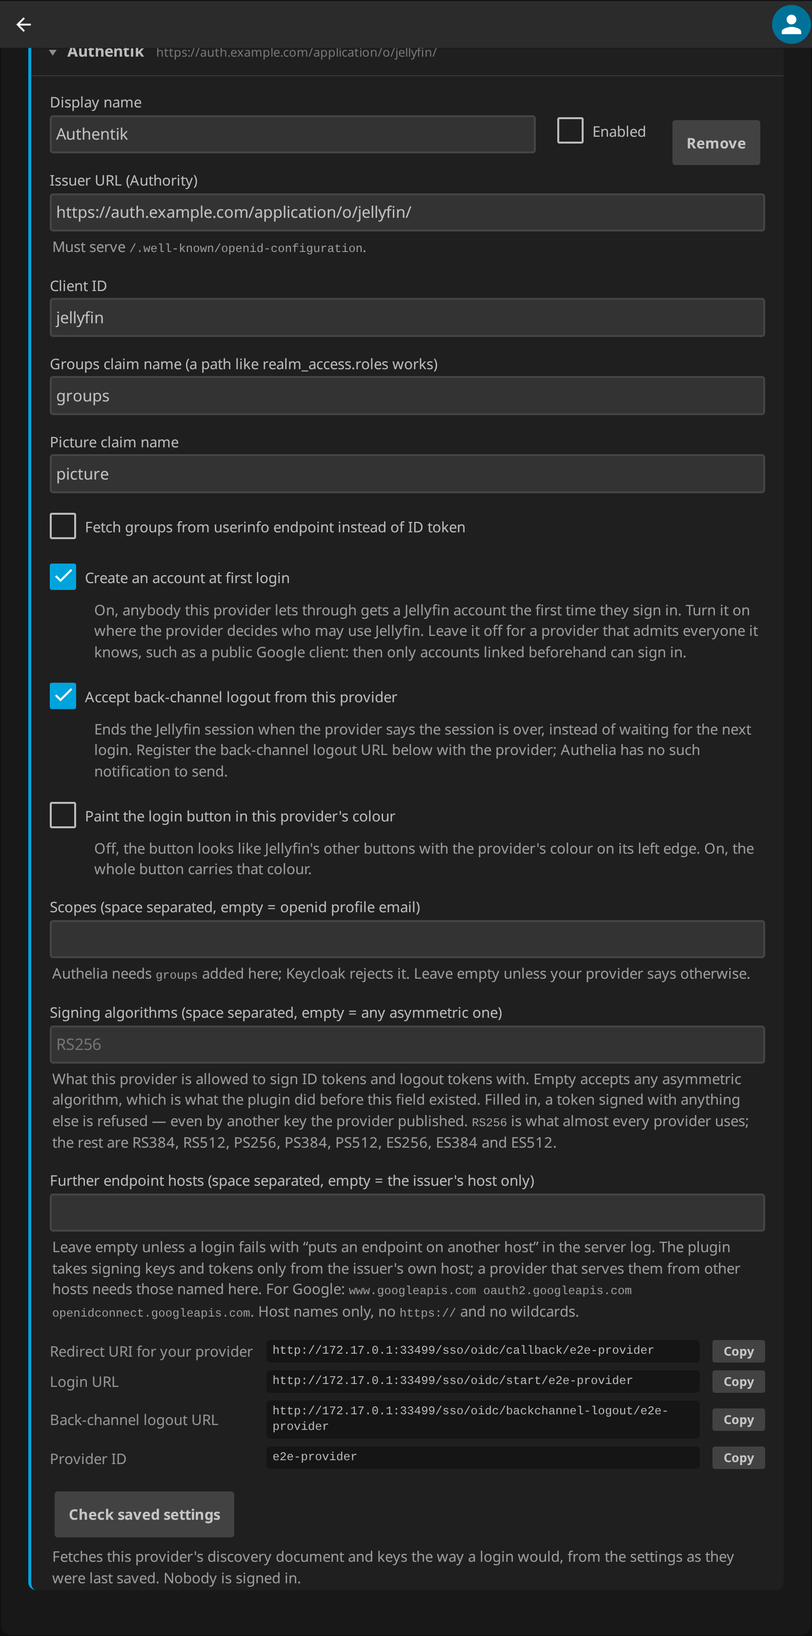
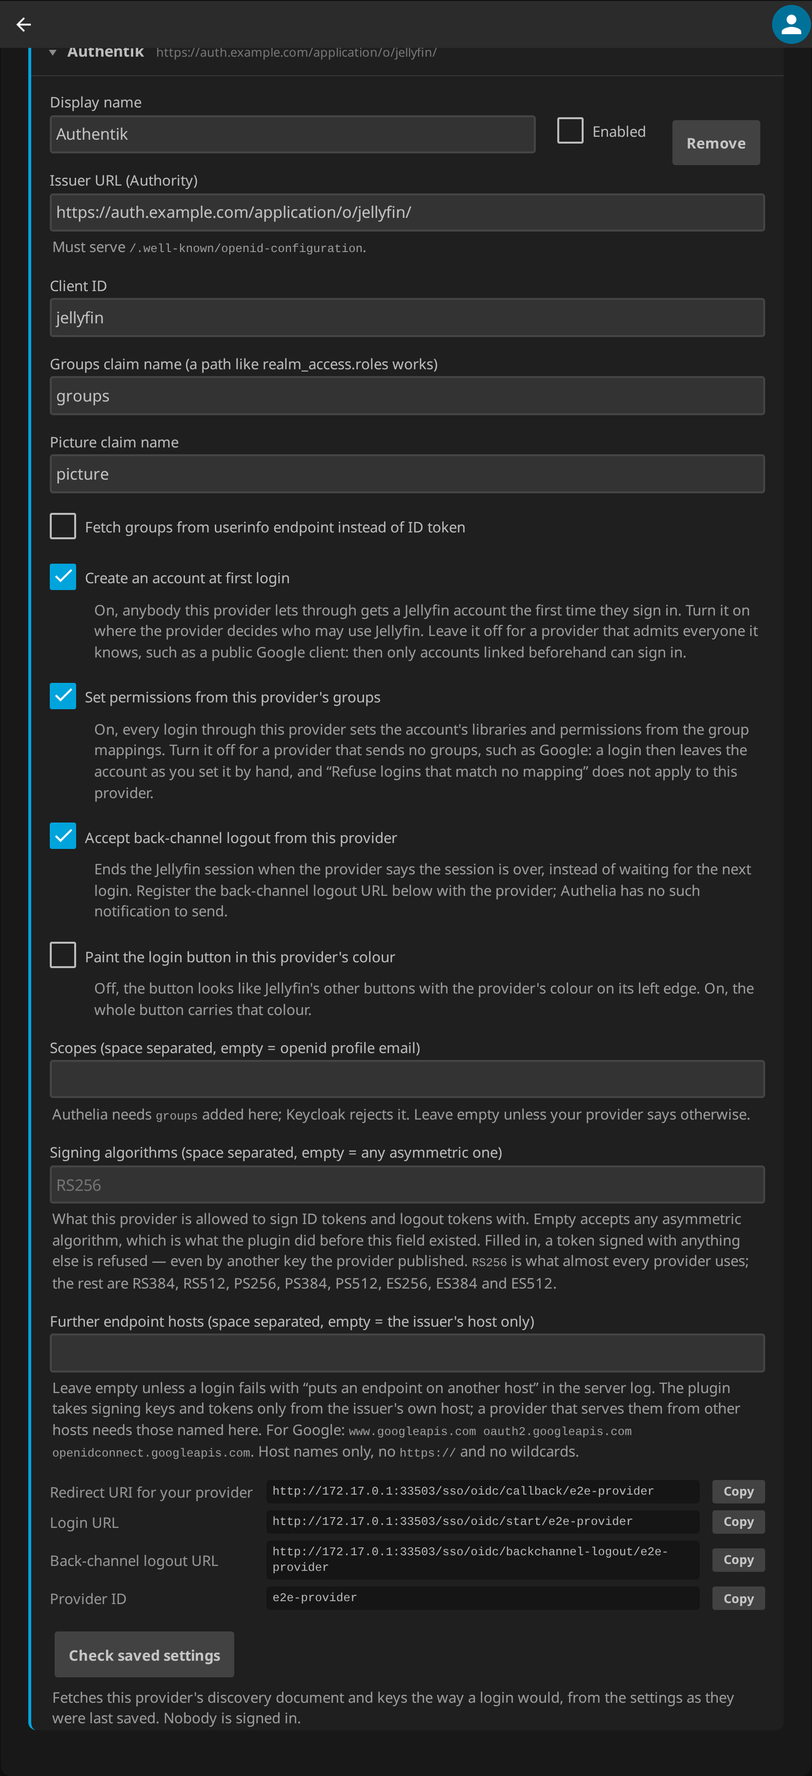
Let a provider without groups leave an account's permissions alone
Permissions are applied from the provider's groups at every login, and taken away
when the groups no longer grant them. A provider that sends no groups, Google
among them, breaks that: "no groups" is applied like any other answer, so the
first login left an account without a library unless an administrator had ticked
Excluded from sync for it, one account at a time.

Providers now carry Set permissions from this provider's groups, on by default.
Off, a login through that provider writes nothing to the account: its libraries,
its administrator flag and its own password login stay as an administrator set
them. That is what Excluded from sync does for one account, done for everybody
who signs in through this provider.

Refuse logins that match no mapping does not apply to such a provider. The rule
asks whether a login matches a group mapping, and no login there could; holding
the provider to it would not be a second lock but a provider nobody can use. It
is exempt alone, and every other provider on the server is still held to the
rule, which the end-to-end test checks in the same breath. Who gets in at a
provider without groups is decided by the links and by Create an account at first
login.

Closes #269.

diff --git a/Jellyfin.Plugin.Sso/Configuration/configPage.js b/Jellyfin.Plugin.Sso/Configuration/configPage.js
@@ -284,6 +284,16 @@ function buildProviderCard(p, i) {
                 'accounts linked beforehand can sign in.</div>' +
         '</div>' +
         '<div class="checkboxContainer">' +
+            '<label><input type="checkbox" is="emby-checkbox" class="sso-provider-manage-permissions"' +
+            (p.ManagePermissions === false ? '' : ' checked') +
+            ' /><span>Set permissions from this provider\'s groups</span></label>' +
+            '<div class="fieldDescription">On, every login through this provider sets the ' +
+                'account\'s libraries and permissions from the group mappings. Turn it off ' +
+                'for a provider that sends no groups, such as Google: a login then leaves ' +
+                'the account as you set it by hand, and \u201cRefuse logins that match no ' +
+                'mapping\u201d does not apply to this provider.</div>' +
+        '</div>' +
+        '<div class="checkboxContainer">' +
             '<label><input type="checkbox" is="emby-checkbox" class="sso-provider-backchannel"' +
             (p.AcceptBackChannelLogout === false ? '' : ' checked') +
             ' /><span>Accept back-channel logout from this provider</span></label>' +
@@ -437,6 +447,7 @@ function collectProviders(view) {
             GroupsFromUserInfo: card.querySelector('.sso-provider-userinfo').checked,
             BrandedLoginButton: card.querySelector('.sso-provider-branded').checked,
             CreateAccounts: card.querySelector('.sso-provider-create-accounts').checked,
+            ManagePermissions: card.querySelector('.sso-provider-manage-permissions').checked,
             AcceptBackChannelLogout: card.querySelector('.sso-provider-backchannel').checked,
             ButtonColour: val('.sso-provider-colour'),
             SigningAlgorithms: val('.sso-provider-algorithms').split(/\s+/).filter(Boolean),

diff --git a/tests/Jellyfin.Plugin.Sso.E2eTests/SessionAndLinkingTests.cs b/tests/Jellyfin.Plugin.Sso.E2eTests/SessionAndLinkingTests.cs
@@ -786,6 +786,60 @@ public sealed class SessionAndLinkingTests : IAsyncLifetime
     }
 
     /// <summary>
+    /// A provider with no groups to send, set up the way Google has to be: it creates no
+    /// accounts and does not set permissions. An existing Jellyfin account linked to it
+    /// signs in and is exactly as it was afterwards — every library it had, and its own
+    /// password login — where a login used to apply "no groups" and take the libraries
+    /// away. The server-wide rule that a login must match a group mapping does not refuse
+    /// it, and still refuses a group-less login at the provider that does manage
+    /// permissions.
+    /// </summary>
+    [Fact]
+    public async Task A_provider_without_groups_leaves_a_linked_account_as_it_was()
+    {
+        const string ProviderId = "no-groups";
+        _env.Idp.RegisteredRedirectUris.Add($"{_env.BaseUrl}/sso/oidc/callback/{ProviderId}");
+        await _env.PatchConfigAsync(config =>
+        {
+            config["RequireMappedGroup"] = true;
+            config["Providers"]!.AsArray().Add(new JsonObject
+            {
+                ["Id"] = ProviderId,
+                ["Name"] = "Provider without groups",
+                ["Enabled"] = true,
+                ["Authority"] = _env.Idp.ContainerAuthority,
+                ["ClientId"] = JellyfinEnvironment.ClientId,
+                ["CreateAccounts"] = false,
+                ["ManagePermissions"] = false,
+            });
+        });
+
+        var (member, _) = await _env.CreateLocalUserWithTokenAsync("handmade");
+        var before = await _env.UserPolicyAsync("handmade");
+        Assert.True((await PostLinkAsync(ProviderId, "sub-handmade", member)).IsSuccessStatusCode);
+
+        var login = await _env.StartWebLoginAsync(
+            new FakeUser("sub-handmade", "whatever-the-provider-calls-them", []), providerId: ProviderId);
+
+        Assert.True(login.Succeeded, login.Body);
+        var after = await _env.UserPolicyAsync("handmade");
+        foreach (var field in new[]
+                 {
+                     "EnableAllFolders", "EnabledFolders", "IsAdministrator",
+                     "AuthenticationProviderId", "EnableContentDownloading",
+                 })
+        {
+            Assert.Equal(before[field]?.ToJsonString(), after[field]?.ToJsonString());
+        }
+
+        // The rule about groups is still in force where groups are read.
+        var elsewhere = await _env.StartWebLoginAsync(
+            new FakeUser("sub-groupless", "grouplessuser", []), providerId: JellyfinEnvironment.ProviderId);
+        Assert.Equal(HttpStatusCode.Forbidden, elsewhere.CallbackStatus);
+        Assert.Contains("match one of its group mappings", elsewhere.Body);
+    }
+
+    /// <summary>
     /// The check on the provider card, asked the way the page asks it. A provider that
     /// works reports what a login would find; one whose document moves its endpoints to a
     /// host nobody named reports the refusal — the sentence that used to be readable only

diff --git a/tests/Jellyfin.Plugin.Sso.Tests/PermissionSyncTests.cs b/tests/Jellyfin.Plugin.Sso.Tests/PermissionSyncTests.cs
@@ -66,6 +66,38 @@ public sealed class PermissionSyncTests : IDisposable
     private void OtherUsers(params User[] users) => _userManager.GetUsers().Returns(users);
 
     /// <summary>
+    /// A provider that sends no groups — Google — used to take an account's libraries
+    /// away at every login, because "no groups" was applied like any other answer. With
+    /// the provider set not to manage permissions nothing about the account is written:
+    /// not its libraries, not its administrator flag, not which login it uses.
+    /// </summary>
+    [Fact]
+    public async Task A_provider_that_does_not_manage_permissions_leaves_the_account_alone()
+    {
+        ExistingUser(admin: true);
+        Map("media", admin: false, MoviesId);
+        var google = new ProviderConfig { Id = "google", ManagePermissions = false };
+
+        await _sync.SyncAsync(_userId, Identity(), default, google);
+
+        await _userManager.DidNotReceiveWithAnyArgs().UpdatePolicyAsync(default, default!);
+    }
+
+    /// <summary>The same login through a provider that does manage them is applied.</summary>
+    [Fact]
+    public async Task A_provider_that_manages_permissions_still_applies_the_groups()
+    {
+        ExistingUser(admin: false);
+        Map("media", admin: false, MoviesId);
+        var authentik = new ProviderConfig { Id = "authentik" };
+
+        await _sync.SyncAsync(_userId, Identity("media"), default, authentik);
+
+        await _userManager.Received(1).UpdatePolicyAsync(
+            _userId, Arg.Is<UserPolicy>(p => p.EnabledFolders.SequenceEqual(new[] { MoviesId })));
+    }
+
+    /// <summary>
     /// The sync used to fall back to a blank UserPolicy when it could not read the current
     /// one, and then write that — resetting every field the plugin does not own to the
     /// type's default. IsDisabled defaults to false, so a login on that path could

diff --git a/tests/Jellyfin.Plugin.Sso.Tests/LoginGateTests.cs b/tests/Jellyfin.Plugin.Sso.Tests/LoginGateTests.cs
@@ -37,6 +37,35 @@ public sealed class LoginGateTests : IDisposable
     public void Nothing_configured_at_all_changes_nothing()
         => Assert.Null(Refusal(Identity()));
 
+    // ─── A provider whose groups are not read ─────────────────────────────────
+
+    /// <summary>
+    /// The rule asks whether a login matches a group mapping. A provider that is set not
+    /// to manage permissions — Google, which has no groups to send — would fail it at
+    /// every login, so switching the rule on would switch that provider off. Its logins
+    /// are decided by links and by whether it creates accounts instead.
+    /// </summary>
+    [Fact]
+    public void The_rule_does_not_apply_to_a_provider_that_does_not_manage_permissions()
+    {
+        Config.RequireMappedGroup = true;
+        Map("media");
+        var google = new ProviderConfig { Id = "google", ManagePermissions = false };
+
+        Assert.Null(LoginGate.Refusal(Config, Identity(), existingUserId: null, google));
+    }
+
+    /// <summary>And it still applies to every other provider on the same server.</summary>
+    [Fact]
+    public void The_rule_still_applies_to_a_provider_that_does_manage_them()
+    {
+        Config.RequireMappedGroup = true;
+        Map("media");
+        var authentik = new ProviderConfig { Id = "authentik" };
+
+        Assert.NotNull(LoginGate.Refusal(Config, Identity(), existingUserId: null, authentik));
+    }
+
     // ─── On ───────────────────────────────────────────────────────────────────
 
     [Fact]

diff --git a/Jellyfin.Plugin.Sso/Controllers/SsoCallbackController.cs b/Jellyfin.Plugin.Sso/Controllers/SsoCallbackController.cs
@@ -137,7 +137,8 @@ public sealed class SsoCallbackController : SsoFlowController
             if (pending.LinkUserId is { } linkUserId)
                 return CompleteSelfServiceLink(provider, identity, linkUserId, stamp);
 
-            WarnIfNoGroupsArrived(provider, identity);
+            if (provider.ManagePermissions)
+                WarnIfNoGroupsArrived(provider, identity);
 
             if (RefuseUnmatchedLogin(provider, identity) is { } refused)
                 return refused;
@@ -148,7 +149,7 @@ public sealed class SsoCallbackController : SsoFlowController
             if (Revoked(pending, identity, userId))
                 return PlainText.BadRequest(RevokedMessage);
 
-            await _permissions.SyncAsync(userId, identity, ct).ConfigureAwait(false);
+            await _permissions.SyncAsync(userId, identity, ct, provider).ConfigureAwait(false);
             await _pictures.SyncAsync(userId, identity.PictureUrl, provider, ct)
                 .ConfigureAwait(false);
 
@@ -433,7 +434,7 @@ public sealed class SsoCallbackController : SsoFlowController
     {
         var config = Plugin.Instance!.Configuration;
         var refusal = LoginGate.Refusal(
-            config, identity, UserProvisioner.LinkedUserId(provider, identity));
+            config, identity, UserProvisioner.LinkedUserId(provider, identity), provider);
 
         if (refusal is null)
         {

diff --git a/Jellyfin.Plugin.Sso/Configuration/PluginConfiguration.cs b/Jellyfin.Plugin.Sso/Configuration/PluginConfiguration.cs
@@ -181,6 +181,21 @@ public class ProviderConfig
     public bool CreateAccounts { get; set; } = true;
 
     /// <summary>
+    /// Whether a login through this provider sets the account's libraries, permissions
+    /// and administrator flag from the groups the provider sent. On — the default, and
+    /// what the plugin is built around: the provider's groups are the source of truth.
+    ///
+    /// Off is for a provider that has no groups to send, Google being the common one.
+    /// There, "the groups" are always empty, and applying them takes an account's
+    /// libraries away at every login. Off, a login through this provider leaves the
+    /// account exactly as an administrator set it, the way
+    /// <see cref="PluginConfiguration.SyncExcludedUserIds"/> does for one account — and
+    /// <see cref="PluginConfiguration.RequireMappedGroup"/> does not apply to it, because
+    /// a rule about groups has nothing to ask a provider whose groups are not read.
+    /// </summary>
+    public bool ManagePermissions { get; set; } = true;
+
+    /// <summary>
     /// Whether the plugin accepts back-channel logout notifications from this provider at
     /// <c>/sso/oidc/backchannel-logout/{id}</c>. On, because the endpoint acts only on a
     /// logout token the provider signed, and a provider only posts one once an

diff --git a/Jellyfin.Plugin.Sso/Provisioning/PermissionSync.cs b/Jellyfin.Plugin.Sso/Provisioning/PermissionSync.cs
@@ -30,8 +30,22 @@ public sealed class PermissionSync
         _logger = logger;
     }
 
-    public async Task SyncAsync(Guid userId, OidcIdentity identity, CancellationToken ct = default)
+    public async Task SyncAsync(
+        Guid userId, OidcIdentity identity, CancellationToken ct = default, ProviderConfig? provider = null)
     {
+        // A provider that does not manage permissions leaves the account as it is: not
+        // its libraries, not its administrator flag, not which login methods it has. The
+        // groups such a provider sends are empty, and applying "no groups" is how an
+        // account lost everything an administrator had given it by hand.
+        if (provider is { ManagePermissions: false })
+        {
+            _logger.LogInformation(
+                "SSO sync skipped for user {Id}: provider {ProviderId} does not set "
+                + "permissions from groups, permissions left as configured.",
+                userId, Loggable.KnownProviderId(provider.Id));
+            return;
+        }
+
         // One login at a time. The administrator decision below reads every account on the
         // server and the policy write that acts on it happens afterwards; two logins
         // overlapping there could demote the last two administrators at once, each having

diff --git a/Jellyfin.Plugin.Sso/Provisioning/LoginGate.cs b/Jellyfin.Plugin.Sso/Provisioning/LoginGate.cs
@@ -29,9 +29,21 @@ public static class LoginGate
 {
     /// <summary>What to tell the log, or null when the login may go ahead.</summary>
     public static LoginRefusal? Refusal(
-        PluginConfiguration config, OidcIdentity identity, Guid? existingUserId)
+        PluginConfiguration config,
+        OidcIdentity identity,
+        Guid? existingUserId,
+        ProviderConfig? provider = null)
     {
         if (!config.RequireMappedGroup)
+        {
+            return null;
+        }
+
+        // A provider whose groups are not read has no groups to match. Holding its logins
+        // to this rule would refuse every one of them, which is not a second lock but a
+        // provider that cannot be used; who gets in there is decided by the links and by
+        // whether the provider creates accounts.
+        if (provider is { ManagePermissions: false })
         {
             return null;
         }

diff --git a/tests/Jellyfin.Plugin.Sso.Tests/ProviderConfigTests.cs b/tests/Jellyfin.Plugin.Sso.Tests/ProviderConfigTests.cs
@@ -35,6 +35,10 @@ public sealed class ProviderConfigTests
         // no such element to read — keeps creating accounts as it did. The configuration
         // page turns it off for a provider it adds.
         Assert.True(provider.CreateAccounts);
+
+        // On: the provider's groups are the source of truth unless somebody says this
+        // provider has none.
+        Assert.True(provider.ManagePermissions);
     }
 
     /// <summary>
@@ -67,6 +71,7 @@ public sealed class ProviderConfigTests
 
         var provider = Assert.Single(config.Providers);
         Assert.True(provider.CreateAccounts);
+        Assert.True(provider.ManagePermissions);
         Assert.Empty(provider.EndpointHosts);
     }
 

diff --git a/docs/threat-model.md b/docs/threat-model.md
@@ -63,6 +63,7 @@ its signature is checked, and the group names that arrive with it.
 | Linking while JIT provisioning is awaiting storage | All link writers check uniqueness under the configuration lock at the final write; a losing provisional account is removed | `Jit_and_self_service_link_must_not_create_two_owners_for_one_identity` |
 | Discovery naming a foreign JWKS host | Endpoint validation precedes the JWKS fetch, with shared paths permitted only on the authority's origin | `Discovery_must_check_the_jwks_host_before_sending_the_request` |
 | A provider that admits everyone creating an account for everyone | Per provider, *Create an account at first login* off: an identity without a link is refused before its name is looked at, and no account or link is written — also when a stale link was cleared on the way. Off for a provider added on the page; on for one saved before the switch existed, so an upgrade locks nobody out | `An_unknown_identity_gets_no_account_where_the_provider_creates_none`, `A_stale_link_does_not_become_a_way_to_create_an_account`, `The_refusal_says_nothing_about_which_names_exist`, `A_provider_saved_before_the_switch_existed_still_creates_accounts`, `A_provider_that_creates_no_accounts_signs_in_only_linked_identities` |
+| A provider without groups stripping accounts, or its switch opening the group gate for everyone | *Set permissions from this provider's groups* off writes nothing to the account at a login through that provider, and exempts only that provider from *Refuse logins that match no mapping*; every other provider is still held to it. What an account then has is what an administrator gave it by hand; a stranger there gets in only where *Create an account at first login* is also on, and then to an account without libraries | `A_provider_that_does_not_manage_permissions_leaves_the_account_alone`, `The_rule_does_not_apply_to_a_provider_that_does_not_manage_permissions`, `The_rule_still_applies_to_a_provider_that_does_manage_them`, `A_provider_without_groups_leaves_a_linked_account_as_it_was` |
 | The provider check used to make the server fetch an address | It takes a provider id and reads the address from the saved configuration; the request carries none. Administrators only. It fetches what a login for that provider fetches, under the same discovery rules, and a confidential client's secret is read to see that it exists and is in no line of the answer | `Checking_a_provider_reports_what_a_login_would_find`, `A_confidential_clients_secret_is_found_without_being_repeated`, `A_provider_without_an_issuer_is_told_so_and_nothing_is_fetched` |
 | The list of refused sign-ins steering an administrator to the wrong account | The list offers a subject and a provider to link, never an account: the name beside them comes from the provider, is shown as text, and is not matched against Jellyfin's users. Fifty entries and a day at most, in memory, administrators only — a provider that admits everybody can fill it, not grow it | `The_list_never_grows_past_its_capacity_and_keeps_the_newest`, `A_name_is_cut_to_a_label_and_an_unusable_subject_is_not_listed`, `A_refused_sign_in_is_linked_from_the_account_links_tab`, `A_provider_that_creates_no_accounts_signs_in_only_linked_identities` |
 | A host list that admits more than it names | *Further endpoint hosts* takes host names, compared whole and with their port: no wildcard, no scheme, no suffix match, and an entry that is not a host name admits nothing. Naming one host does not admit another, and a host taken off the list is refused at once rather than when the cached document expires | `A_lookalike_of_a_named_host_is_refused`, `An_entry_that_is_not_a_host_name_admits_nothing`, `Naming_one_host_does_not_admit_the_others`, `A_host_taken_off_the_list_is_not_served_from_the_cache`, `A_provider_serving_keys_and_tokens_from_a_named_host_signs_in` |

diff --git a/README.md b/README.md
@@ -28,7 +28,8 @@ OpenID Connect single sign-on for Jellyfin — for households already running
   a file, never from the plugin's configuration.
 - **Groups decide access** — libraries, Live TV, downloads, deletion, collections,
   subtitles, lyrics, parental rating, admin — reapplied on every SSO login, except for
-  the accounts you exclude from the sync.
+  the accounts you exclude from the sync and for a provider you tell to leave permissions
+  alone because it sends no groups.
 - **Accounts created at first login** where you switch that on for a provider, existing
   ones [linked explicitly](docs/linking.md) — or no account at all, if you ask the plugin
   to refuse logins that match no group.
@@ -68,8 +69,8 @@ only Markdown skips the heavy ones.
 
 | | |
 |---|---|
-| **685 unit tests** | Token validation, permissions, lockout guards, revocation races, account writes, markup, the served pages |
-| **158 end-to-end tests** | Throwaway Jellyfin container, an OIDC provider built for the suite, real browser — four of them check the harness's own reading of a browser console and need none of that |
+| **689 unit tests** | Token validation, permissions, lockout guards, revocation races, account writes, markup, the served pages |
+| **159 end-to-end tests** | Throwaway Jellyfin container, an OIDC provider built for the suite, real browser — four of them check the harness's own reading of a browser console and need none of that |
 | **Every Jellyfin 12.x** | The same build against the oldest server the catalog offers it to and the two newest, on every pull request — and against every 12.x there is in the weekly run |
 | **16 real-provider logins** | Authentik, Keycloak and Authelia, through their own forms — including the misconfigurations their guides warn about |
 | **Mutation testing** | Weekly. Stryker breaks the code to see whether the tests notice: 69 % in the last run, floor 65 % — over the files the unit suite can reach, which is most of the plugin but not the controllers |
@@ -194,7 +195,7 @@ same way for each of the four, this one included.
 
 | | Since | Latest | ★ | Licence | Written by AI | Tests |
 |---|---|---|---:|---|---|---|
-| **This one** | 2026-09 | v1.12.21 · 2026-11 | 5 | MIT → GPLv3 | **168 of 204** commits | 685 + 178 |
+| **This one** | 2026-09 | v1.12.21 · 2026-11 | 5 | MIT → GPLv3 | **168 of 204** commits | 689 + 179 |
 | K0lin | 2026-06 | v5.1.1 · 2026-09 | 187 | GPL-3.0 | none from an AI | about 78 |
 | Ezeqielle | 2026-05 | v1.0.10 · 2026-09 | 40 | GPL-3.0 | 33 of 82 | 16 |
 | 9p4 | 2022-01 | v4.0.0.4 · archived | 1,448 | GPL-3.0 | none from an AI | none |

diff --git a/docs/configuration.md b/docs/configuration.md
@@ -75,7 +75,8 @@ hosts against the provider's own documentation first.
 > *Testing* admits the test users you listed, and a published *External* client admits
 > **anyone with a Google account**, each of whom gets a Jellyfin account at their first
 > login. And Google sends no groups, so no mapping ever matches: those accounts have no
-> libraries. Leave **Create an account at first login** off for such a provider, below.
+> libraries. For such a provider, leave **Create an account at first login** off and turn
+> **Set permissions from this provider's groups** off as well, both below.
 
 *Create an account at first login* decides what happens to somebody the provider vouches
 for and this server has never seen. On, they get a Jellyfin account on the spot — right
@@ -97,6 +98,20 @@ It differs from *Refuse logins that match no mapping* [below](#safety) in two wa
 one is for the whole server and this one is per provider; and that one asks about groups
 at every login, also of accounts that exist, while this one only asks whether there is an
 account.
+
+*Set permissions from this provider's groups* is on by default, and it is the plugin's
+normal working: every login sets the account's libraries, permissions and administrator
+flag from the [group mappings](#group-mappings), and takes away what the groups no longer
+grant. A provider that sends no groups breaks that — "no groups" is applied like any other
+answer, so the first login leaves the account without a library. Off, a login through
+this provider leaves the account exactly as you set it by hand: its libraries, its
+administrator flag, and its own password login. That is what *Excluded from sync* does for
+one account, done for everybody who signs in through this provider.
+
+Two consequences. *Refuse logins that match no mapping* does not apply to such a provider,
+since no login there could ever match; who gets in is decided by the links and by *Create
+an account at first login*. And an account linked to two providers follows whichever it
+last signed in through — the one that sets permissions sets them, the other leaves them.
 
 **Check saved settings**, at the foot of the card, asks the server to look at the provider
 the way a login is about to: it fetches the discovery document and the keys and lists
